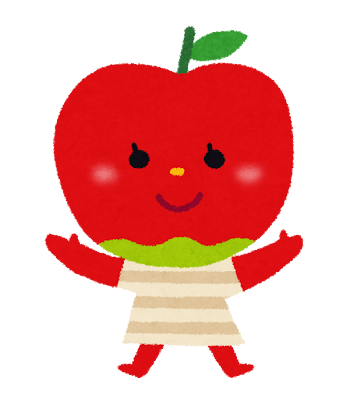
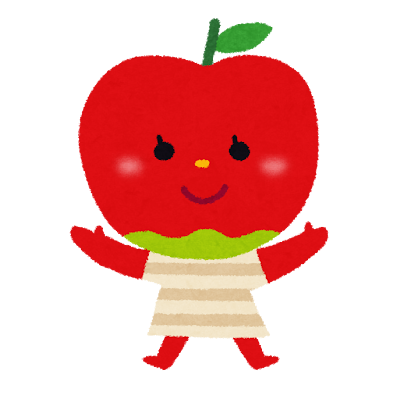
update image size

diff --git a/index.html b/index.html
@@ -59,6 +59,15 @@
         const grapeImg = new Image();
         grapeImg.src = 'grape.png';
 
+        const bananaImg = new Image();
+        bananaImg.src = 'banana.png';
+
+        const melonImg = new Image();
+        melonImg.src = 'melon.png';
+
+        const orangeImg = new Image();
+        orangeImg.src = 'orange.png';
+
         // Calculate fruit size based on screen area
         let fruitSize = Math.sqrt((canvas.width * canvas.height) / 10);
 
@@ -72,8 +81,38 @@
                 this.x = x;
                 this.y = y;
                 this.type = type;
-                this.width = fruitSize;
-                this.height = fruitSize;
+                this.width = fruitSize; // Width determined by calculated size
+                this.height = fruitSize; // Height determined by calculated size
+
+                // Ensure images load before setting dimensions
+                this.img = new Image();
+                switch (this.type) {
+                    case 'apple':
+                        this.img = appleImg;
+                        break;
+                    case 'grape':
+                        this.img = grapeImg;
+                        break;
+                    case 'banana':
+                        this.img = bananaImg;
+                        break;
+                    case 'melon':
+                        this.img = melonImg;
+                        break;
+                    case 'orange':
+                        this.img = orangeImg;
+                        break;
+                    default:
+                        break;
+                }
+
+                // Load image and set dimensions after loaded
+                this.img.onload = () => {
+                    const aspectRatio = this.img.width / this.img.height;
+                    this.width = fruitSize * aspectRatio;
+                    this.height = fruitSize;
+                };
+
                 this.speedX = Math.random() * 2 - 1; // Random initial speed (-1 to 1)
                 this.speedY = Math.random() * 2 - 1;
             }
@@ -100,11 +139,7 @@
 
             // Method to draw the fruit on canvas
             draw() {
-                if (this.type === 'apple') {
-                    ctx.drawImage(appleImg, this.x, this.y, this.width, this.height);
-                } else if (this.type === 'grape') {
-                    ctx.drawImage(grapeImg, this.x, this.y, this.width, this.height);
-                }
+                ctx.drawImage(this.img, this.x, this.y, this.width, this.height);
             }
         }
 
@@ -169,12 +204,29 @@
 
             // If all fruits are tapped, switch to next fruit type
             if (fruits.length === 0) {
-                if (currentFruit === 'apple') {
-                    currentFruit = 'grape';
-                    generateFruits('grape');
-                } else if (currentFruit === 'grape') {
-                    currentFruit = 'apple';
-                    generateFruits('apple');
+                switch (currentFruit) {
+                    case 'apple':
+                        currentFruit = 'grape';
+                        generateFruits('grape');
+                        break;
+                    case 'grape':
+                        currentFruit = 'banana';
+                        generateFruits('banana');
+                        break;
+                    case 'banana':
+                        currentFruit = 'melon';
+                        generateFruits('melon');
+                        break;
+                    case 'melon':
+                        currentFruit = 'orange';
+                        generateFruits('orange');
+                        break;
+                    case 'orange':
+                        currentFruit = 'apple';
+                        generateFruits('apple');
+                        break;
+                    default:
+                        break;
                 }
             }
 
